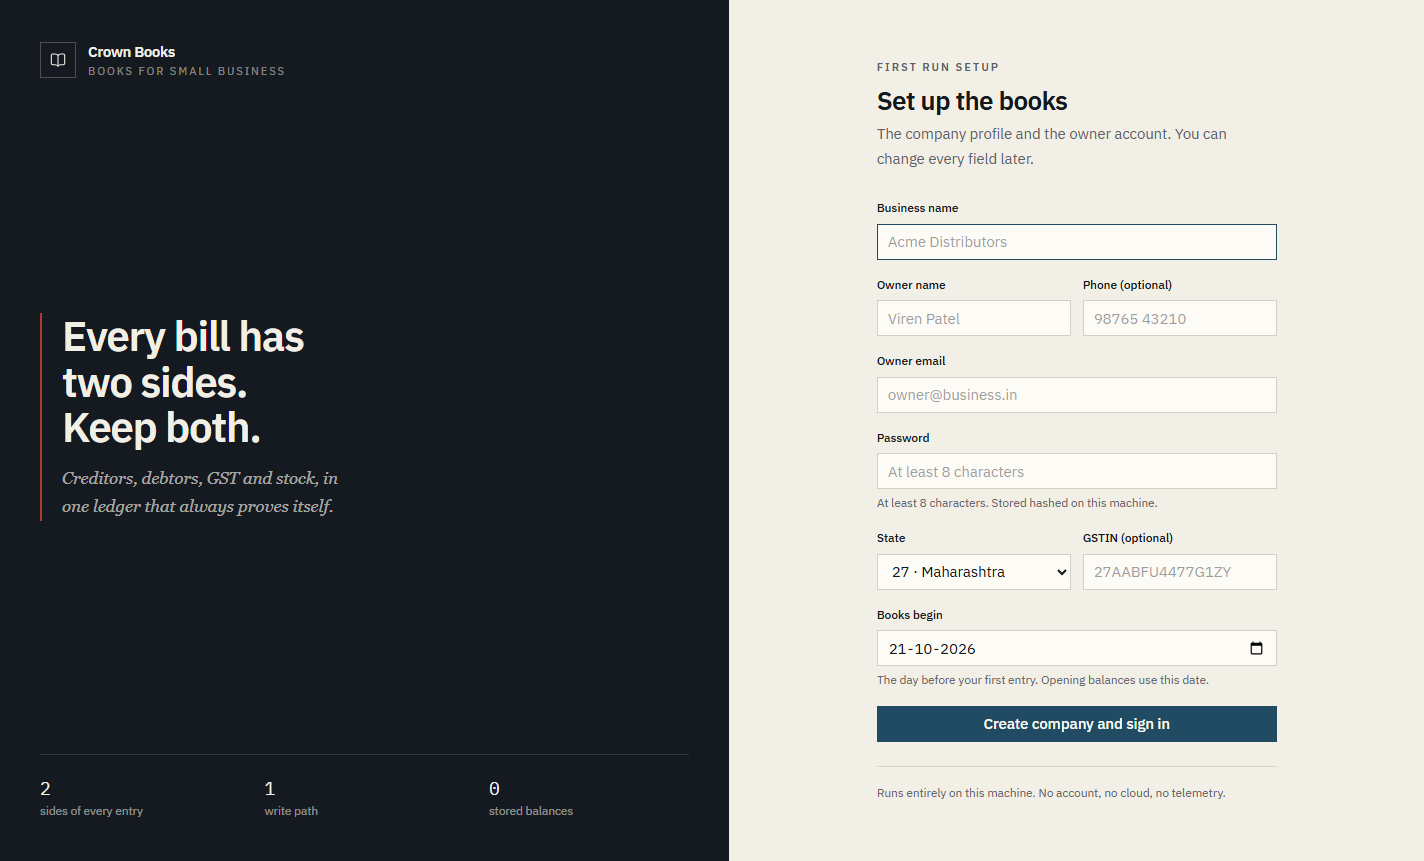
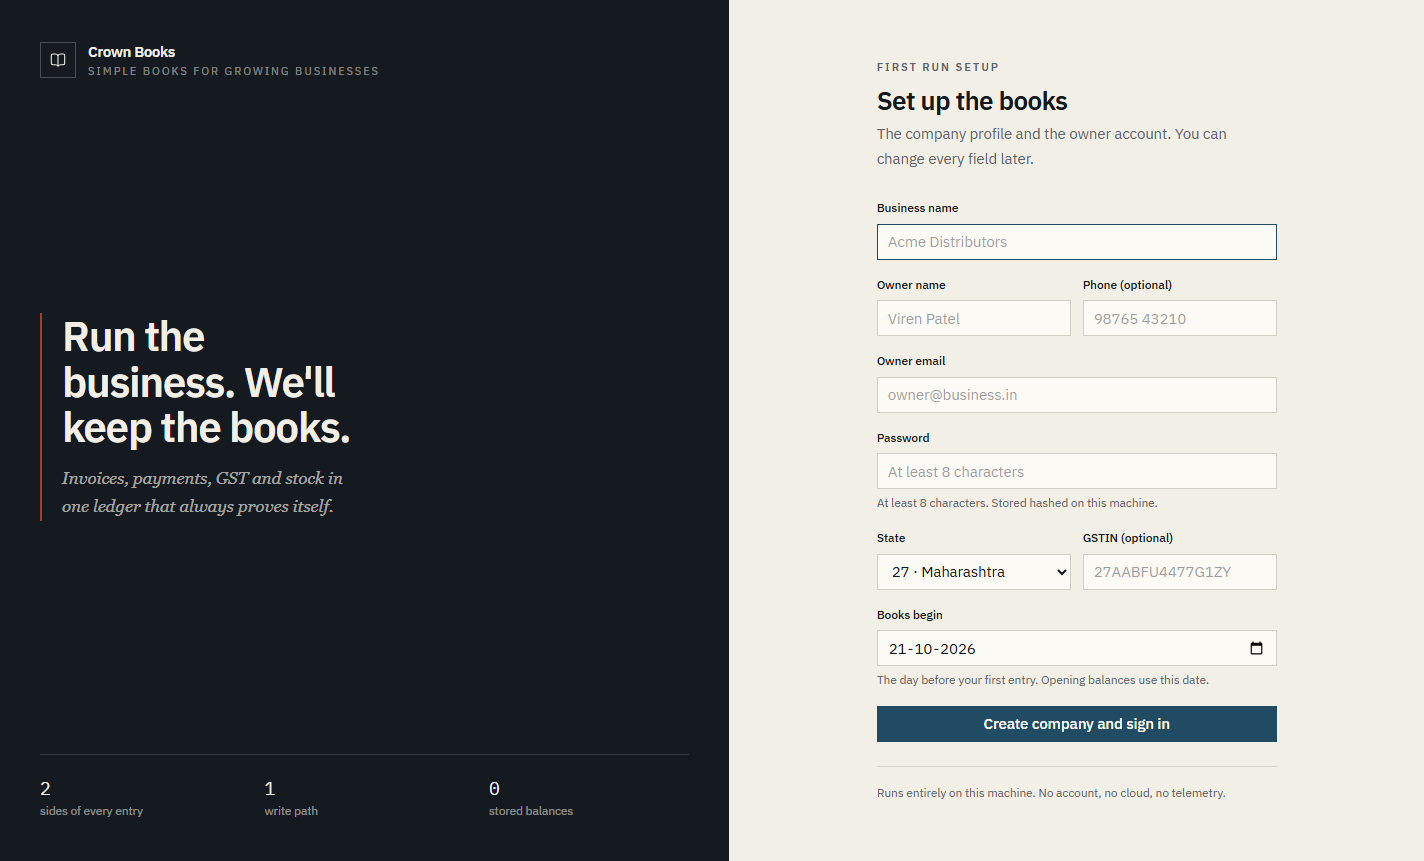
copy: align auth tagline and headline with the small business promise

Changed region(s): [[0.0309, 0.3624, 0.2472, 0.5134], [0.0309, 0.5436, 0.2472, 0.5738], [0.0618, 0.0604, 0.2472, 0.0906]]

diff --git a/src/renderer/src/components/auth/AuthGate.tsx b/src/renderer/src/components/auth/AuthGate.tsx
@@ -125,17 +125,17 @@ export function AuthGate({
           <div>
             <div className="text-[0.9375rem] font-semibold tracking-tight">Crown Books</div>
             <div className="text-[0.6875rem] uppercase tracking-[0.18em] text-paper/50">
-              Books for small business
+              Simple books for growing businesses
             </div>
           </div>
         </div>
 
         <div className="max-w-[34ch] border-l-2 border-stamp pl-5">
           <h1 className="text-[2.625rem] font-semibold leading-[1.08] tracking-[-0.03em]">
-            Every bill has two sides. Keep both.
+            Run the business. We&apos;ll keep the books.
           </h1>
           <p className="mt-4 font-serif text-[1.0625rem] italic leading-relaxed text-paper/65">
-            Creditors, debtors, GST and stock, in one ledger that always proves itself.
+            Invoices, payments, GST and stock in one ledger that always proves itself.
           </p>
         </div>
 
@@ -168,7 +168,7 @@ export function AuthGate({
             {isSetup ? 'First run setup' : 'Sign in'}
           </p>
           <h2 className="mt-2 text-[1.625rem] font-semibold leading-tight tracking-tight">
-            {isSetup ? 'Set up the books' : 'Welcome back'}
+            {isSetup ? 'Set up the books' : 'Open your books'}
           </h2>
           <p className="mt-1.5 text-[0.9375rem] leading-relaxed text-muted-foreground">
             {isSetup
